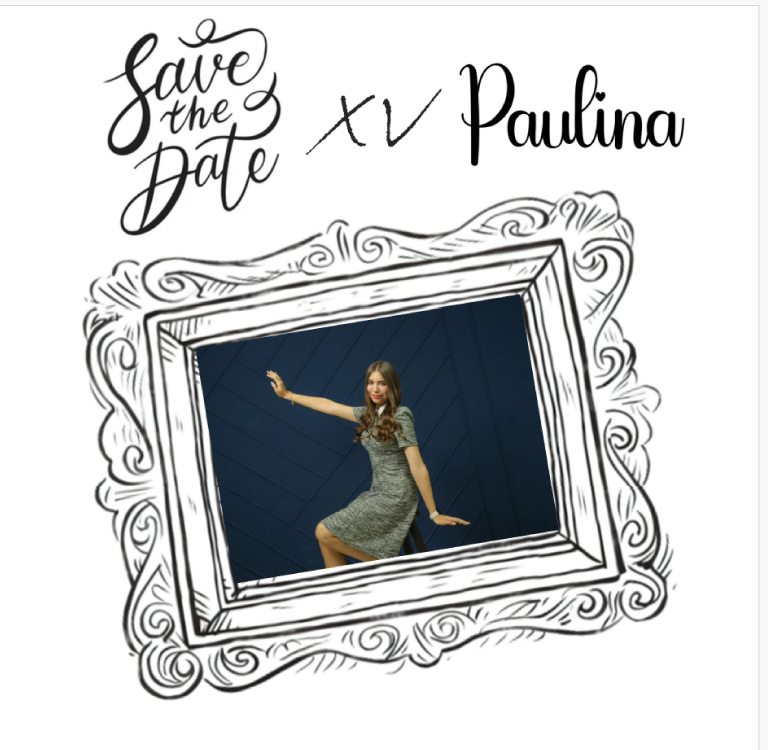
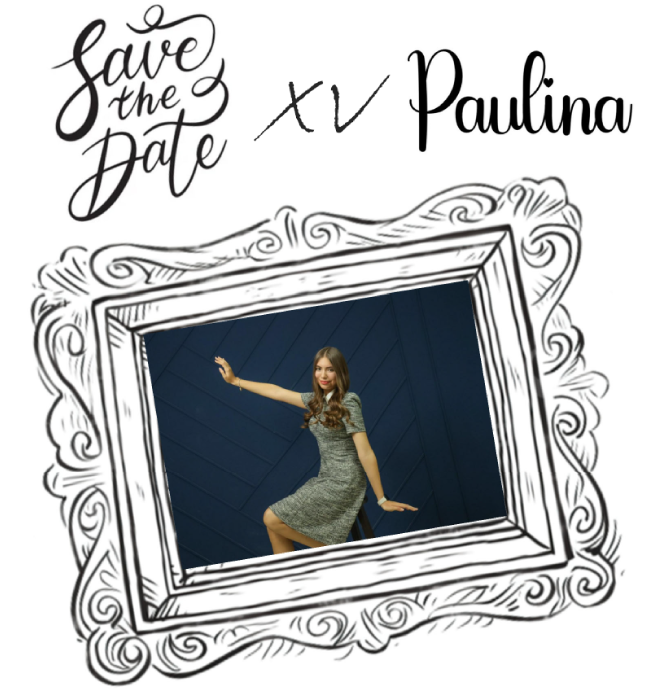
marzo

diff --git a/save_the_date/XV/save_NibiaPaulina/inicio_2.html b/save_the_date/XV/save_NibiaPaulina/inicio_2.html
@@ -1,0 +1,320 @@
+<!DOCTYPE html>
+<html lang="es">
+<head>
+<meta charset="UTF-8" />
+<meta name="viewport" content="width=device-width, initial-scale=1" />
+<title>Save the Date | Mis XV</title>
+
+<link rel="preconnect" href="https://fonts.googleapis.com">
+<link rel="preconnect" href="https://fonts.gstatic.com" crossorigin>
+
+<link href="https://fonts.googleapis.com/css2?family=Playfair+Display:wght@400;500;600&family=Great+Vibes&family=Montserrat:wght@300;400;500&display=swap" rel="stylesheet">
+
+<style>
+
+:root{
+--white:#ffffff;
+--soft:rgba(255,255,255,.8);
+--line:rgba(255,255,255,.55);
+}
+
+*{box-sizing:border-box;}
+html,body{margin:0;padding:0;}
+
+body{
+background:#ffffff;
+font-family:"Montserrat",sans-serif;
+color:var(--white);
+}
+
+.poster{
+width:100%;
+min-height:100vh;
+background:#ffffff;
+display:flex;
+flex-direction:column;
+align-items:center;
+}
+
+/* HERO / PORTADA */
+
+.hero{
+width:100%;
+max-width:768px;
+height:620px;
+background:url("portada.png") center 70px / 100% auto no-repeat;
+background-color:#ffffff;
+position:relative;
+flex:0 0 auto;
+}
+
+/* contenido flotante si se usa */
+
+.content{
+position:absolute;
+inset:0;
+z-index:2;
+display:flex;
+flex-direction:column;
+align-items:center;
+justify-content:flex-end;
+text-align:center;
+padding:0 24px 28px;
+gap:12px;
+pointer-events:none;
+}
+
+.word{
+font-family:"Playfair Display",serif;
+font-size:clamp(34px,4.5vw,46px);
+letter-spacing:.18em;
+text-transform:uppercase;
+line-height:1.05;
+}
+
+.the-row{
+display:flex;
+align-items:center;
+justify-content:center;
+gap:14px;
+margin:14px 0;
+}
+
+.line{
+height:1px;
+width:min(120px,26vw);
+background:var(--line);
+}
+
+.the{
+font-family:"Great Vibes",cursive;
+font-size:32px;
+color:var(--soft);
+line-height:1;
+}
+
+.xv{
+margin-top:8px;
+font-family:"Great Vibes",cursive;
+font-size:clamp(52px,8vw,58px);
+letter-spacing:.08em;
+line-height:1;
+}
+
+.name{
+margin-top:80px;
+font-size:18px;
+letter-spacing:.32em;
+text-transform:uppercase;
+color:var(--soft);
+}
+
+.name_2{
+margin-top:20px;
+font-family:"Great Vibes",cursive;
+font-size:60px;
+}
+
+/* FOOTER NEGRO */
+
+.footer-panel{
+width:100%;
+max-width:800px;
+background:#000;
+margin-top:-25px;
+padding:26px 20px 34px;
+
+display:flex;
+flex-direction:column;
+align-items:center;
+justify-content:center;
+text-align:center;
+}
+
+.countdown{
+display:flex;
+gap:18px;
+font-family:"Playfair Display",serif;
+align-items:center;
+justify-content:center;
+flex-wrap:wrap;
+opacity:1;
+}
+
+.time-box{
+text-align:center;
+min-width:62px;
+}
+
+.num{
+font-size:clamp(22px,3.5vw,28px);
+letter-spacing:.12em;
+line-height:1.1;
+color:#fff;
+opacity:1;
+}
+
+.label{
+font-size:10px;
+letter-spacing:.28em;
+text-transform:uppercase;
+color:#fff;
+margin-top:4px;
+opacity:1;
+}
+
+.note{
+margin-top:14px;
+font-family:"Great Vibes",cursive;
+font-size:clamp(22px,2.6vw,30px);
+color:#fff;
+line-height:1.2;
+opacity:1;
+}
+
+.fade{
+opacity:0;
+transform:translateY(10px);
+animation:fadeUp .9s ease forwards;
+}
+
+.d2{animation-delay:.15s;}
+.d3{animation-delay:.3s;}
+.d4{animation-delay:.45s;}
+.d5{animation-delay:.6s;}
+
+@keyframes fadeUp{
+to{opacity:1;transform:none;}
+}
+
+/* MOBILE */
+
+@media (max-width:768px){
+
+.hero{
+margin-top:140px;
+height:620px;
+background:url("portada.png") center 55px / 100% auto no-repeat;
+background-color:#ffffff;
+}
+
+.footer-panel{
+margin-top:-20px;
+padding:24px 18px 30px;
+}
+
+.countdown{gap:14px;}
+.time-box{min-width:58px;}
+.name{letter-spacing:.24em;}
+
+}
+
+</style>
+</head>
+
+<body>
+
+<section class="poster">
+
+<div class="hero">
+<div class="content">
+<div class="fade d3">
+<!--
+<div class="xv">Mis XV</div>
+<div class="name_2">Nibia Paulina</div>
+-->
+</div>
+</div>
+</div>
+
+<div class="footer-panel">
+
+<div style="margin-bottom:18px;text-align:center;">
+<div style="font-family:'Playfair Display',serif;letter-spacing:.25em;font-size:16px;">
+22.AGOSTO.2026
+</div>
+
+<div style="font-family:'Playfair Display',serif;letter-spacing:.25em;font-size:14px;margin-top:6px;">
+CD. JUÁREZ, CHIH.
+</div>
+</div>
+
+<div class="countdown fade d4" id="countdown">
+
+<div class="time-box">
+<div class="num" id="days">00</div>
+<div class="label">DÍAS</div>
+</div>
+
+<div class="time-box">
+<div class="num" id="hours">00</div>
+<div class="label">HORAS</div>
+</div>
+
+<div class="time-box">
+<div class="num" id="minutes">00</div>
+<div class="label">MIN</div>
+</div>
+
+<div class="time-box">
+<div class="num" id="seconds">00</div>
+<div class="label">SEG</div>
+</div>
+
+</div>
+
+<div class="note fade d3">El gran día se acerca</div>
+
+</div>
+</section>
+
+<script>
+
+const eventDate = new Date(2026,7,22,12,30,0);
+
+const daysEl=document.getElementById("days");
+const hoursEl=document.getElementById("hours");
+const minutesEl=document.getElementById("minutes");
+const secondsEl=document.getElementById("seconds");
+
+function updateCountdown(){
+
+const now=Date.now();
+const distance=eventDate.getTime()-now;
+
+if(distance<=0){
+daysEl.textContent="00";
+hoursEl.textContent="00";
+minutesEl.textContent="00";
+secondsEl.textContent="00";
+return;
+}
+
+const days=Math.floor(distance/(1000*60*60*24));
+
+const hours=Math.floor(
+(distance%(1000*60*60*24))/(1000*60*60)
+);
+
+const minutes=Math.floor(
+(distance%(1000*60*60))/(1000*60)
+);
+
+const seconds=Math.floor(
+(distance%(1000*60))/1000
+);
+
+daysEl.textContent=String(days).padStart(2,"0");
+hoursEl.textContent=String(hours).padStart(2,"0");
+minutesEl.textContent=String(minutes).padStart(2,"0");
+secondsEl.textContent=String(seconds).padStart(2,"0");
+
+}
+
+updateCountdown();
+setInterval(updateCountdown,1000);
+
+</script>
+
+</body>
+</html>
